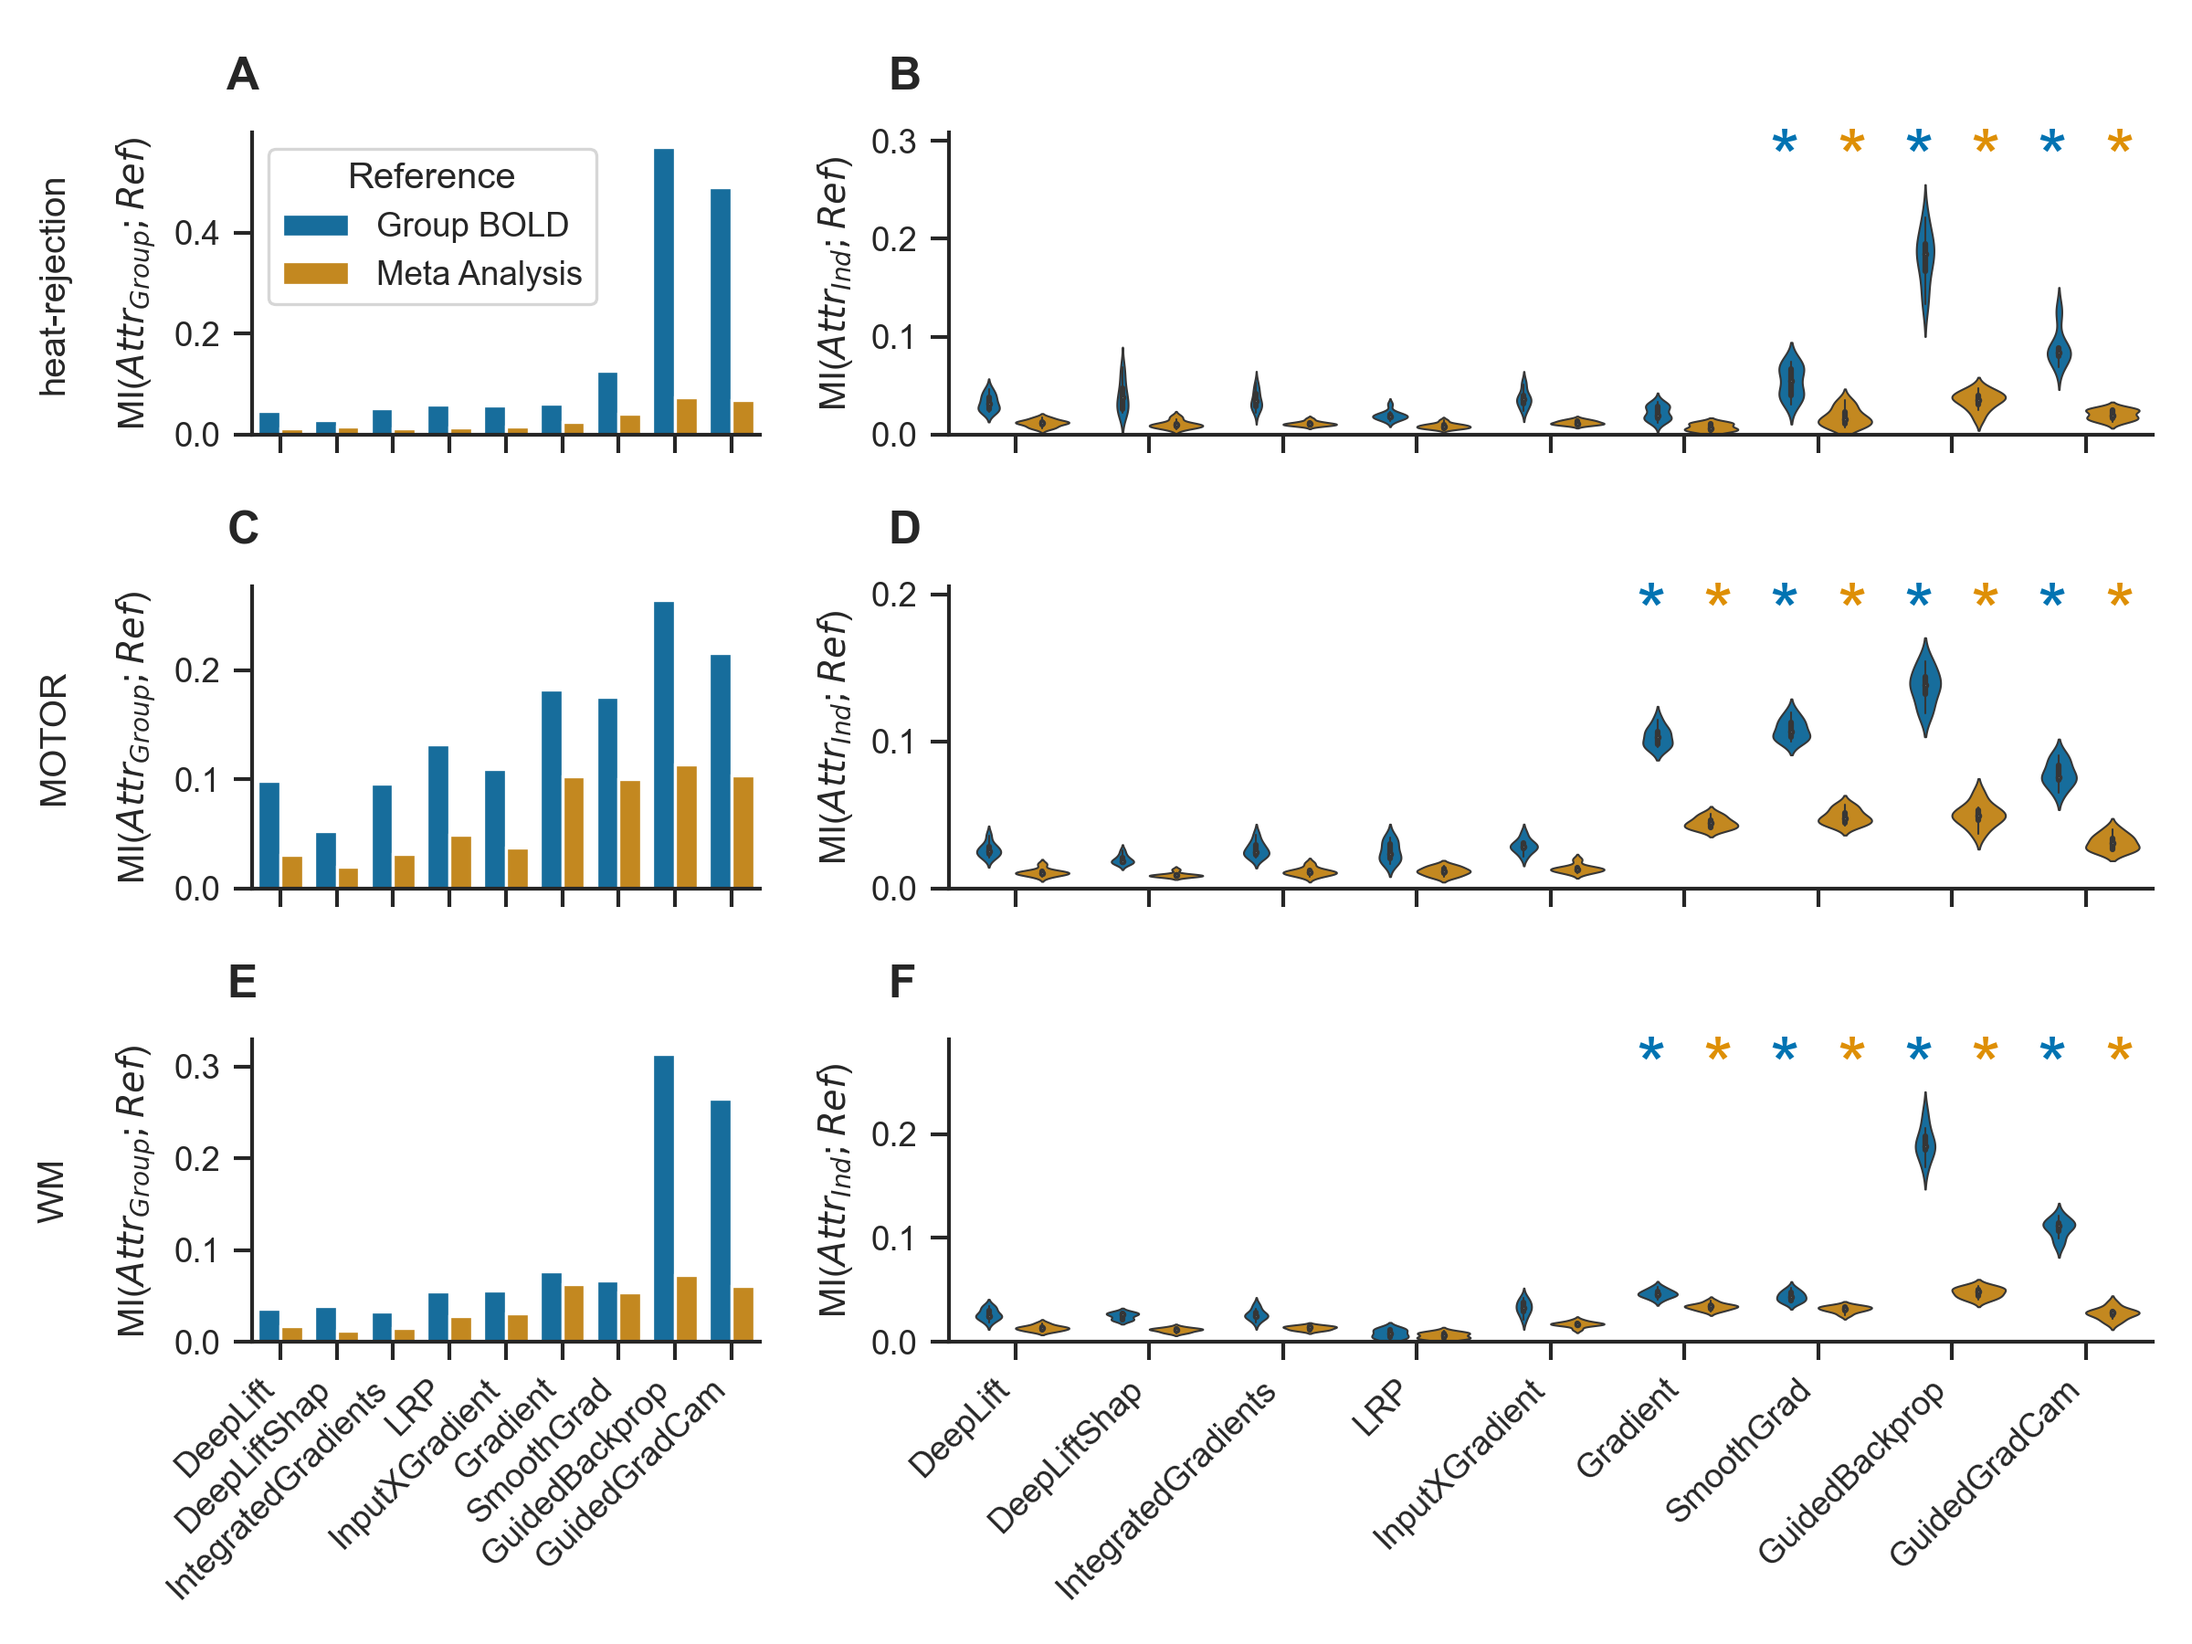
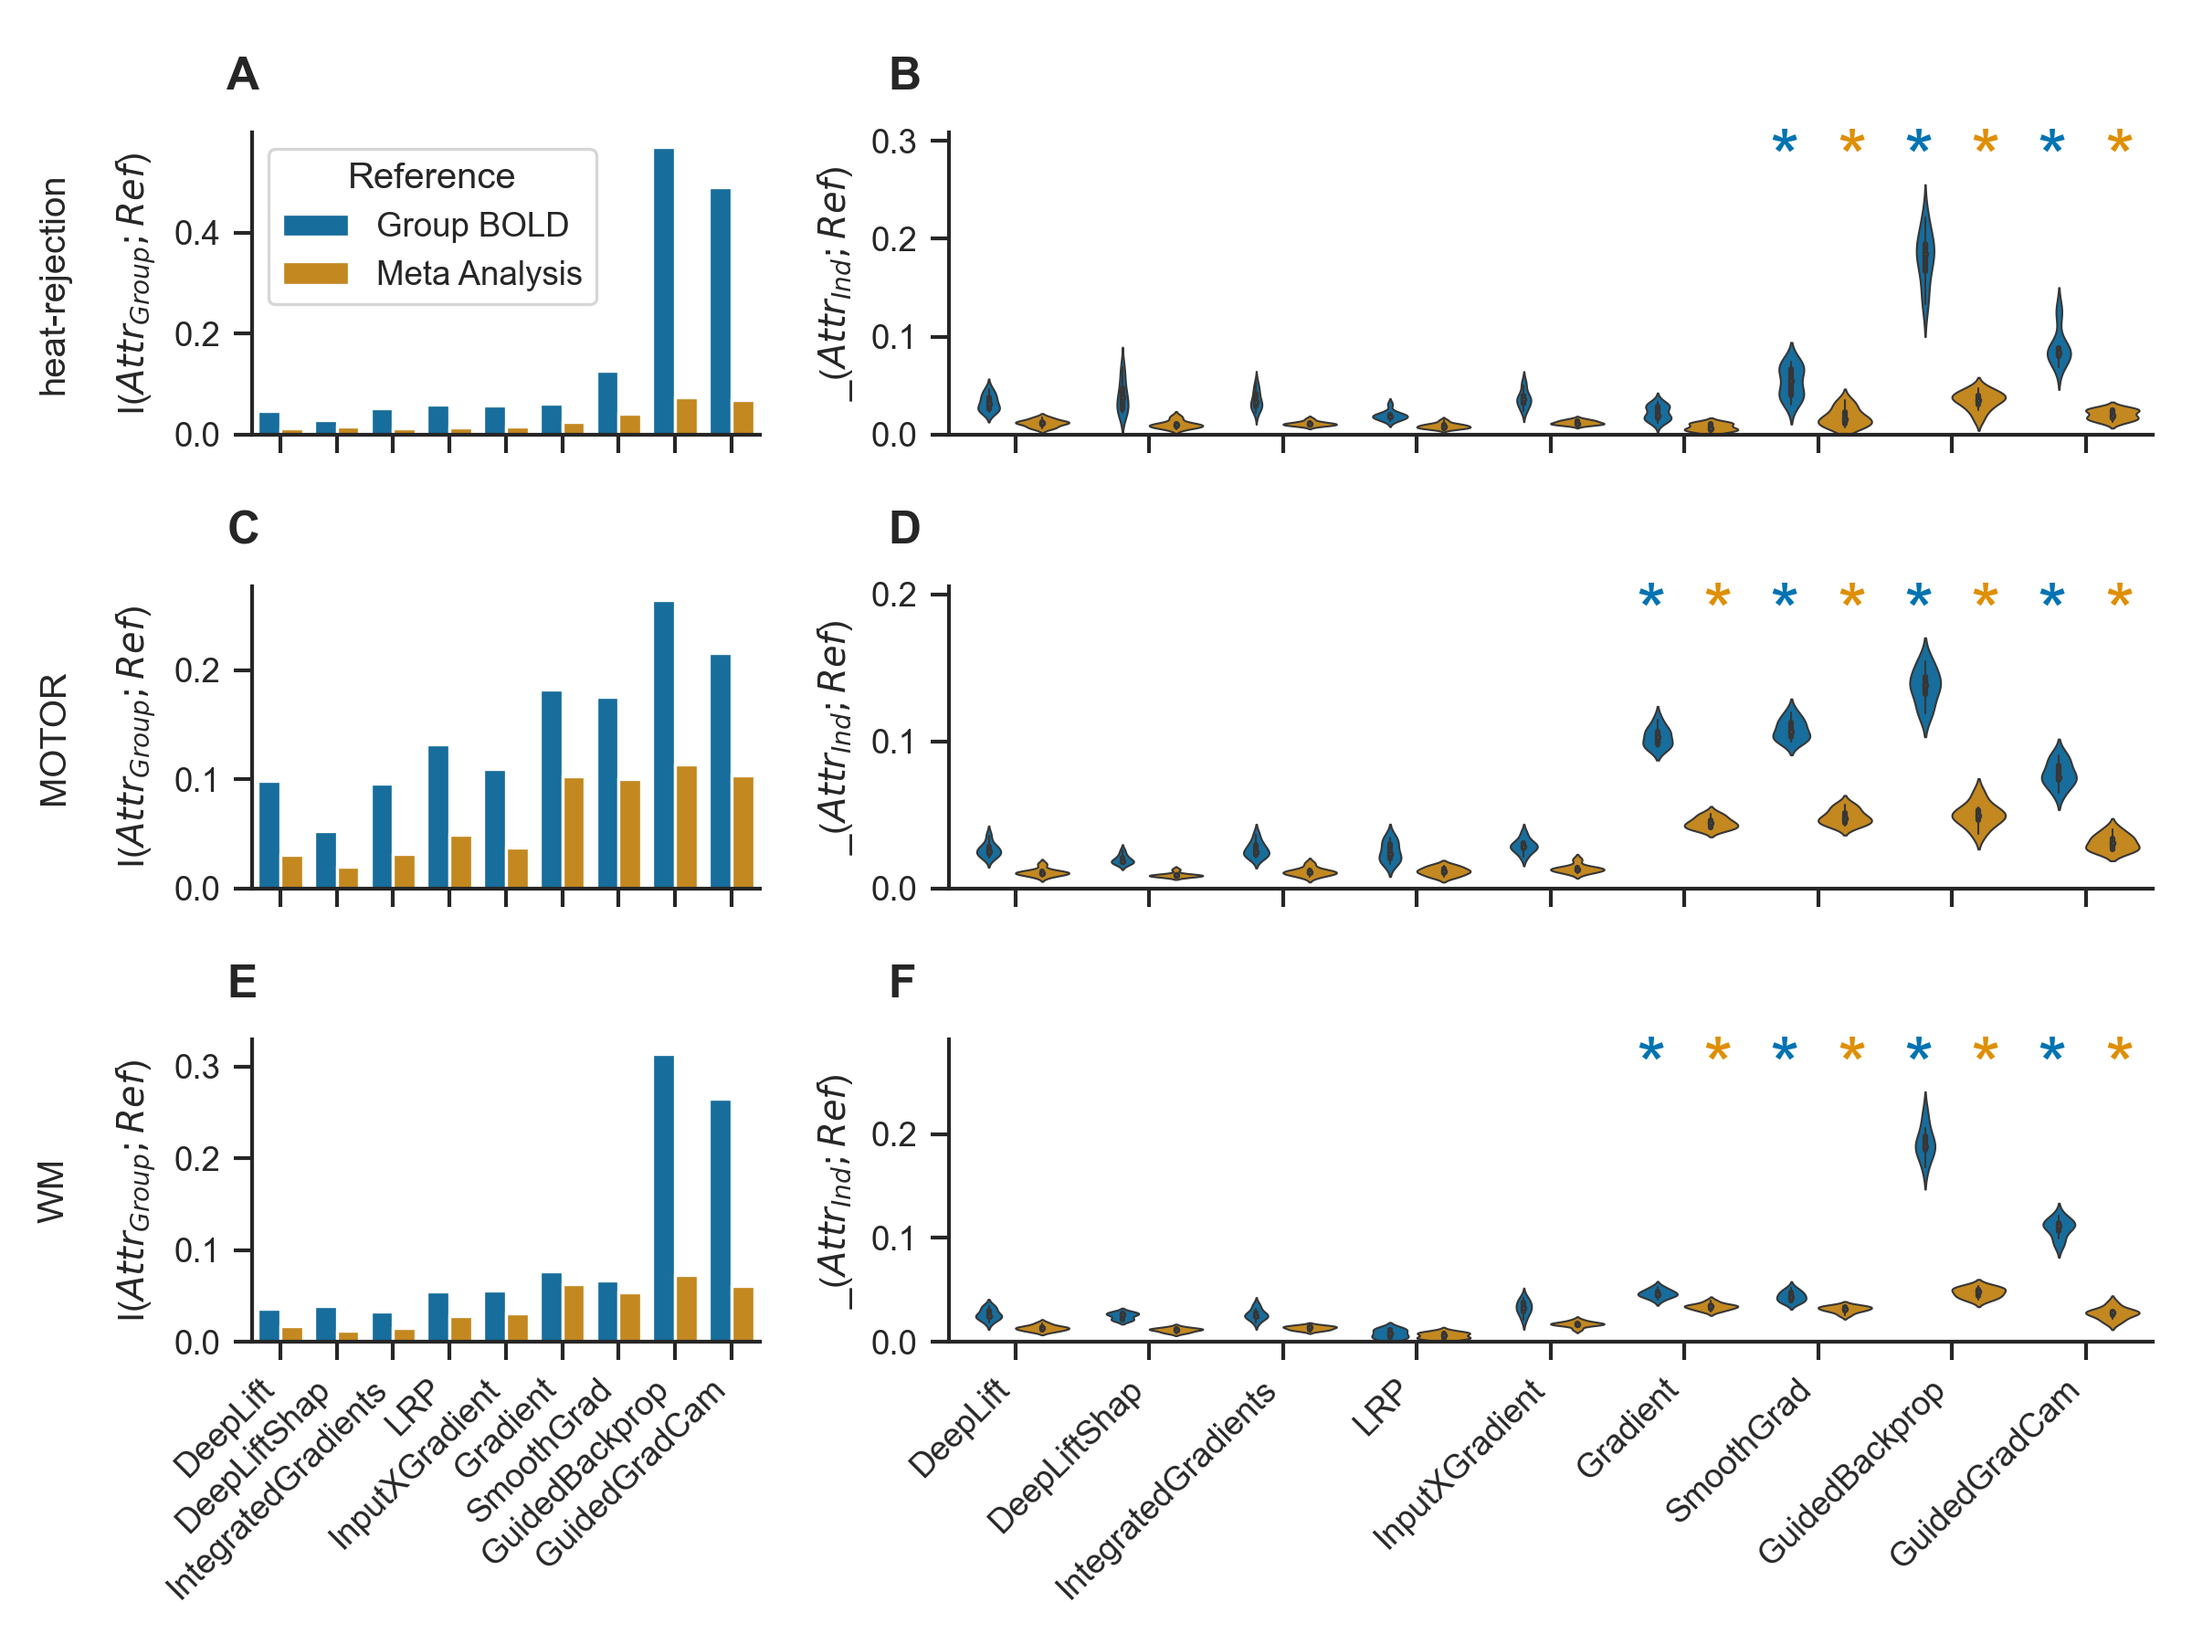
updated

diff --git a/scripts/fig_brain_map_similarities.py b/scripts/fig_brain_map_similarities.py
@@ -19,10 +19,7 @@ def test_hdi(hdi: np.ndarray, true_value: float = 0) -> bool:
     return hdi[0] <= true_value <= hdi[1]
 
 
-def fig_brain_maps_similarity(
-    config=None,
-    similarity_metric='mi',
-    fig_filename='Fig-3_brain-maps-similarity.png') -> None:
+def fig_brain_maps_similarity(config=None) -> None:
     """Script's main function; creates overview figure
     for results of running vscripts/brain-map-similaritues_analysis.py"""
     
@@ -100,7 +97,7 @@ def fig_brain_maps_similarity(
                 subjects = None
             plotting_df = pd.DataFrame({
                 'method': brain_map_similarities['method'],
-                similarity_metric: brain_map_similarities[f'{similarity_metric}_bold'],
+                'mi': brain_map_similarities[f'mi_bold'],
                 'Reference': 'Group BOLD',
                 'subject': subjects
             })
@@ -108,7 +105,7 @@ def fig_brain_maps_similarity(
                 plotting_df,
                 pd.DataFrame({
                     'method': brain_map_similarities['method'],
-                    similarity_metric: brain_map_similarities[f'{similarity_metric}_meta'],
+                    'mi': brain_map_similarities[f'mi_meta'],
                     'Reference': 'Meta Analysis',
                     'subject': subjects
                     
@@ -119,7 +116,7 @@ def fig_brain_maps_similarity(
                 ax = sns.barplot(
                     data=plotting_df,
                     x="method",
-                    y=similarity_metric,
+                    y='mi',
                     hue='Reference',
                     ax=ax,
                     order=method_ordering,
@@ -131,13 +128,13 @@ def fig_brain_maps_similarity(
             
             elif analysis_level == 'subject':
                 subject_means = plotting_df.groupby(
-                    ['method', 'Reference', 'subject'])[similarity_metric].mean().reset_index()
+                    ['method', 'Reference', 'subject'])['mi'].mean().reset_index()
                 subject_means['task'] = task
                 mfx_data.append(subject_means)
                 ax = sns.violinplot(
                     data=subject_means,
                     x="method",
-                    y=similarity_metric,
+                    y='mi',
                     hue='Reference',
                     ax=ax,
                     order=method_ordering,
@@ -150,7 +147,7 @@ def fig_brain_maps_similarity(
                 )
                 ax.legend_.remove()
 
-                for ri, reference in enumerate(['bold', 'meta']):
+                for ri, reference in enumerate(subject_means['Reference'].unique()):
                     # compute mixed effects model
                     mfx_results_path = os.path.join(
                         config["mfx_dir"],
@@ -168,7 +165,7 @@ def fig_brain_maps_similarity(
                         subject_means_ref.rename(columns=colname_mapper, inplace=True)
                         subject_means_ref['DeepLift'] = 0
                         fixed_effects = " + ".join([m for m in method_ordering if m!='DeepLift']) # DeepLift is the reference method
-                        model_string = f"{similarity_metric} ~ {fixed_effects}"
+                        model_string = f"mi ~ {fixed_effects}"
                         print(
                             f'\nComputing regression model for {reference} reference:\n\t{model_string}\n'
                         )
@@ -212,7 +209,7 @@ def fig_brain_maps_similarity(
                             if 0 < mfx_result.loc[method, 'hdi_3%']:
                                 ax.text(
                                     s='*',
-                                    x=mi-0.25 if reference=='bold' else mi+0.25,
+                                    x=mi-0.25 if ri==0 else mi+0.25,
                                     y=float(ax.get_ylim()[1])*0.9,
                                     ha='center',
                                     va='bottom',
@@ -228,12 +225,11 @@ def fig_brain_maps_similarity(
                 )
             
             ax.set_xlabel('')
-            ylabel = " ".join(similarity_metric.upper().split('_'))
             if analysis_level == 'group':
-                ylabel += '('+r'$Attr_{Group}; Ref$'+')'
+                ylabel = 'I('+r'$Attr_{Group}; Ref$'+')'
             
             elif analysis_level == 'subject':
-                ylabel += '('+r'$Attr_{Ind}; Ref$'+')'
+                ylabel = '_('+r'$Attr_{Ind}; Ref$'+')'
             
             else:
                 raise ValueError(
@@ -273,7 +269,7 @@ def fig_brain_maps_similarity(
     fig.savefig(
         fname=os.path.join(
             config["figures_dir"],
-            fig_filename
+            'Fig-3_brain-maps-similarity.png'
         ),
         dpi=300
     )
@@ -296,7 +292,7 @@ def fig_brain_maps_similarity(
         mfx_data['DeepLift'] = 0
         mfx_effects = [m for m in method_ordering if m!='DeepLift'] # DeepLift is the reference method
         fixed_effects = " + ".join(mfx_effects)
-        model_string = f"{similarity_metric} ~ {fixed_effects} + ({fixed_effects}|task)"
+        model_string = f"mi ~ {fixed_effects} + ({fixed_effects}|task)"
         print(
             f'\nComputing mixed effects model:\n\t{model_string}\n'
         )
